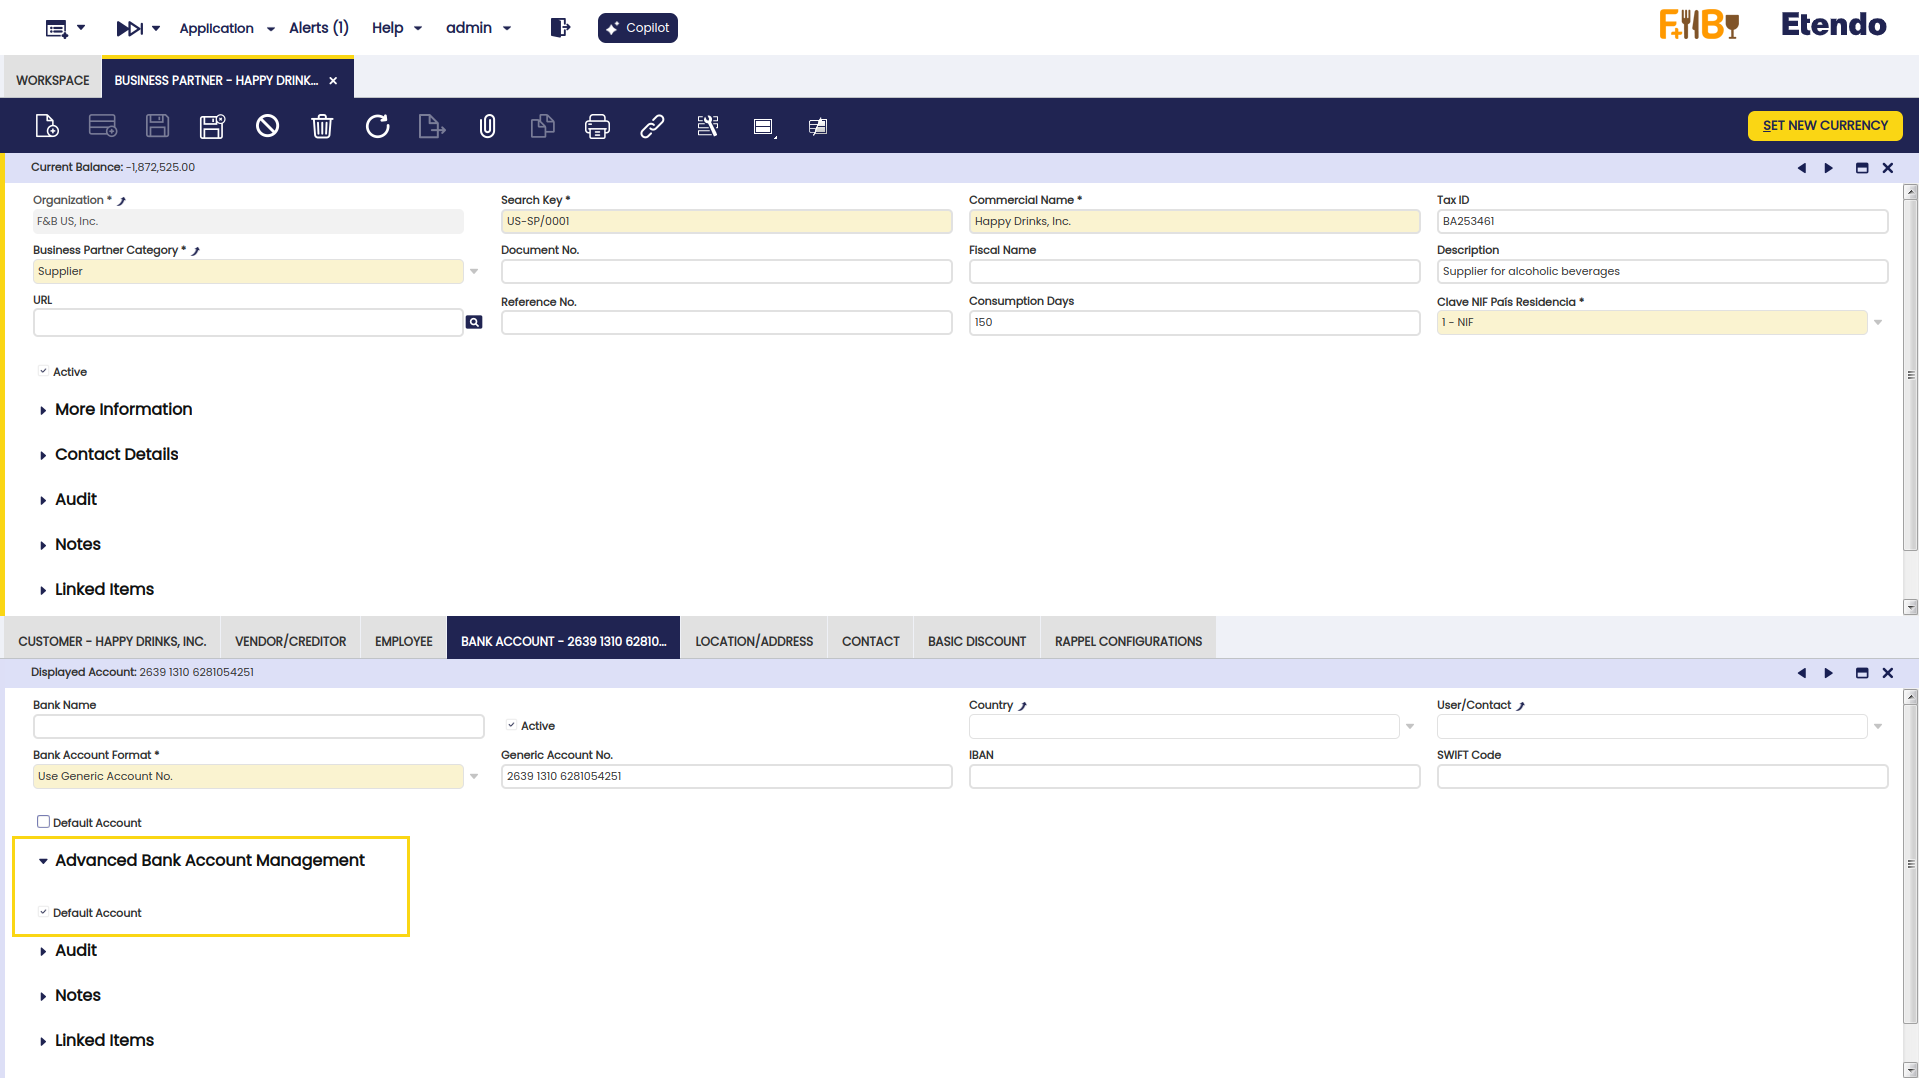
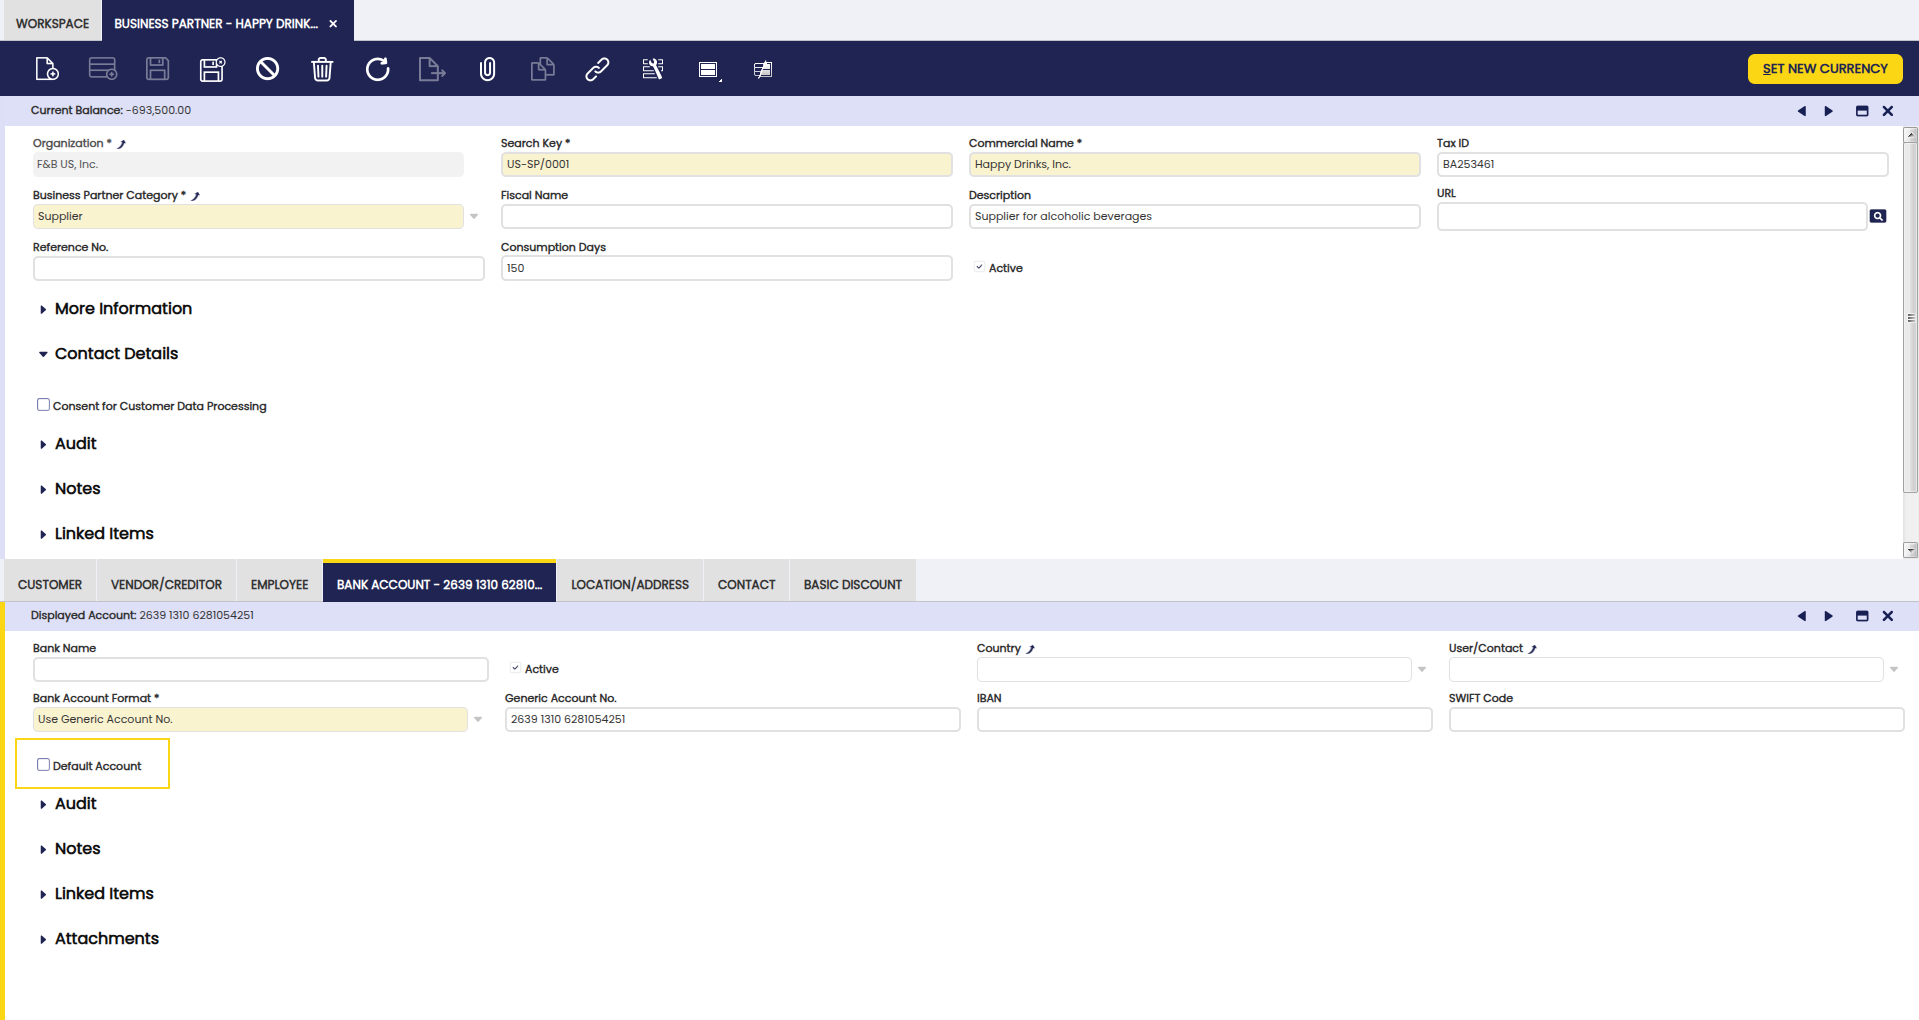
Feature ETP-1140: Edit written content and replace screenshots.

Changed region(s): [[0.0, 0.0, 1.0, 0.9725], [0.9838, 0.4863, 1.0, 0.5775], [0.9838, 0.9725, 1.0, 1.0]]

diff --git a/docs/user-guide/etendo-classic/optional-features/bundles/financial-extensions/advanced-bank-account-management.md b/docs/user-guide/etendo-classic/optional-features/bundles/financial-extensions/advanced-bank-account-management.md
@@ -32,7 +32,7 @@ This functionality is available in the following windows:
 ## Business Partner - Bank Account
 :material-menu: `Application` > `Master Data Management` > `Business Partner`
 
-This module introduces the possibility to mark a bank account as Default within the Bank Account tab of the Business Partner window. Here, in the Advanced Bank Account Management field, it is possible to check the Default Account checkbox in order to set the account to be used in invoices and orders. This information determines the bank account of each payment.
+This module introduces the possibility to mark a bank account as Default within the Bank Account tab of the Business Partner window. Here, it is possible to check the Default Account checkbox in order to set the account to be used in invoices and orders. This information determines the bank account of each payment.
 
 ![](../../../../../assets/user-guide/etendo-classic/optional-features/bundles/financial-extensions/advanced-bank-account-management/aba1.png)
 

diff --git a/docs/user-guide/etendo-classic/basic-features/master-data-management/master-data.md b/docs/user-guide/etendo-classic/basic-features/master-data-management/master-data.md
@@ -323,7 +323,7 @@ The *bank account* related data you can enter is:
 
 If the Remittance module is installed, in this tab, the user can find a “default” checkbox that, if checked, indicates that the selected bank account is the default one, instead of the other options the business partner can have. This means that if the bank account field is not manually populated, Etendo automatically fills the field with the default bank account.
 
-![bank_account_default.png](../../../../assets/legacy/bank_account_default.png)
+![](../../../../assets/user-guide/etendo-classic/basic-features/master-data-management/businesspartnerda.png)
 
 !!! note
     If no bank account is selected as default, the one created last is used when no bank account is selected in orders/invoices.
